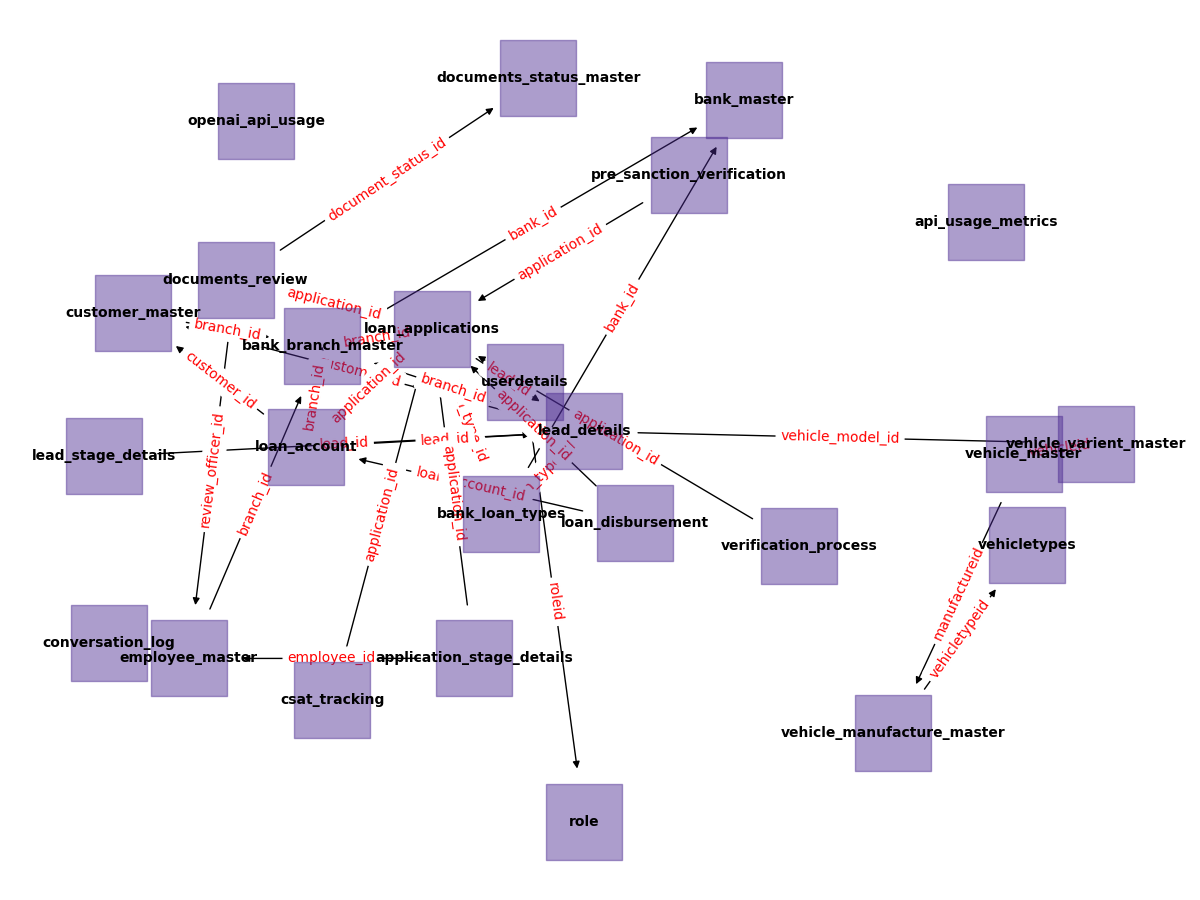
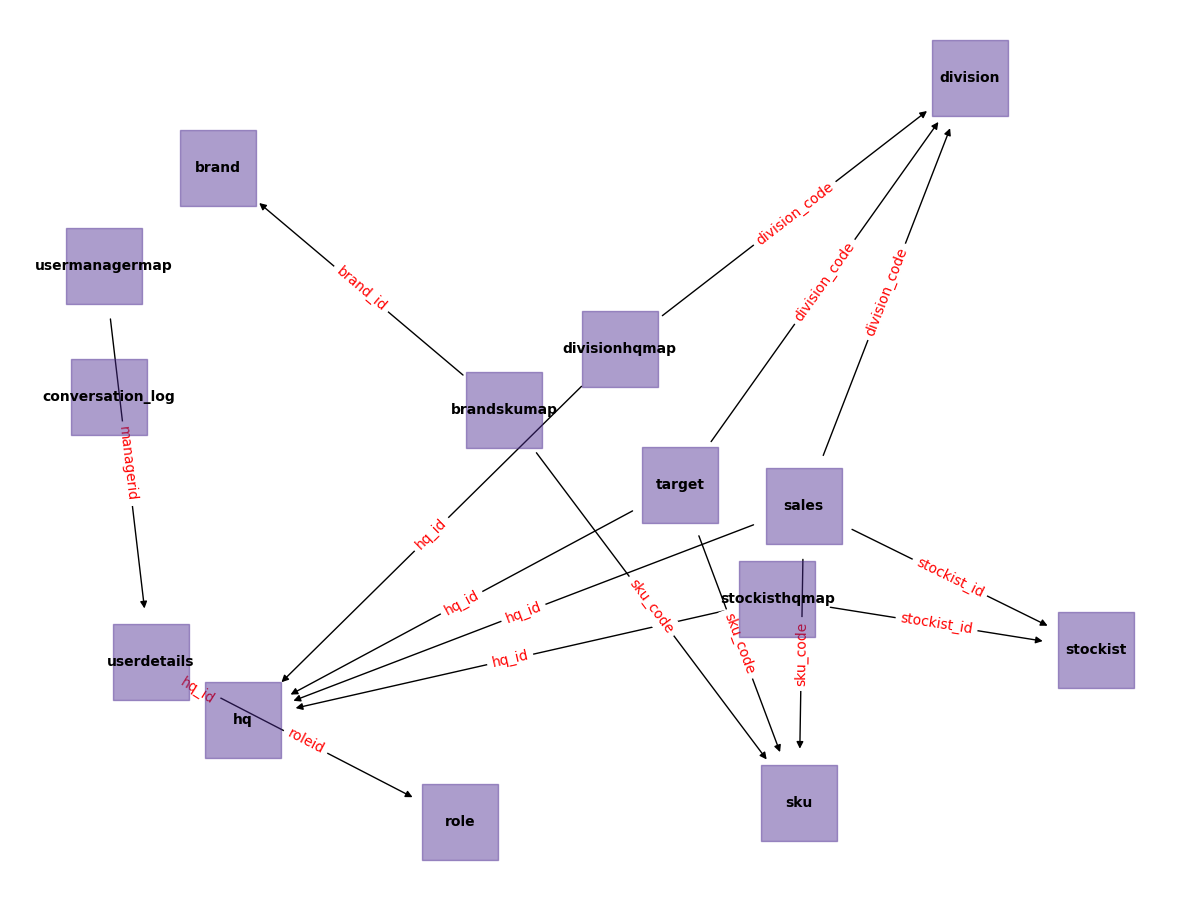
ok

diff --git a/src/components/FixedTemplate.tsx b/src/components/FixedTemplate.tsx
@@ -1,0 +1,91 @@
+import React from "react";
+
+type SectionResult = Record<string, string>;
+type Section = {
+  name: string;
+  query: string;
+  result: any;
+};
+
+type FixedTemplateProps = {
+  chat: {
+    id: number;
+    message: {
+      query: string;
+      result: Section[];
+      summery: string;
+      type: string;
+    };
+    time: string;
+    type: string;
+  };
+};
+
+const getTableHeaders = (results: SectionResult[]) => {
+  if (!results.length) return [];
+  return Object.keys(results[0]);
+};
+
+const FixedTemplate: React.FC<FixedTemplateProps> = ({ chat }) => {
+  console.log("sections", chat);
+
+  const sections = chat?.message?.result || [];
+  return (
+    <div>
+      {sections.map((section, idx) => (
+        <div key={idx} style={{ marginBottom: 32 }}>
+          <h3>{section.name}</h3>
+          {section.result && section.result.length > 0 ? (
+            <div style={{ overflowX: "auto" }}>
+              <table style={{ borderCollapse: "collapse", width: "100%" }}>
+                <thead>
+                  <tr>
+                    {getTableHeaders(section.result ?? []).map((header) => (
+                      <th
+                        key={header}
+                        style={{
+                          border: "1px solid #ccc",
+                          padding: "8px",
+                          background: "#f5f5f5",
+                          textTransform: "capitalize",
+                        }}
+                      >
+                        {header.replace(/_/g, " ")}
+                      </th>
+                    ))}
+                  </tr>
+                </thead>
+                <tbody>
+                  {section.result.map((row: SectionResult, rowIdx: number) => (
+                    <tr key={rowIdx}>
+                      {getTableHeaders(
+                        (section.result as SectionResult[]) ?? []
+                      ).map((header: string) => (
+                        <td
+                          key={header}
+                          style={{
+                            border: "1px solid #ccc",
+                            padding: "8px",
+                            textAlign: "center",
+                          }}
+                        >
+                          {row[header]}
+                        </td>
+                      ))}
+                    </tr>
+                  ))}
+                </tbody>
+              </table>
+            </div>
+          ) : (
+            <div style={{ color: "#888", fontStyle: "italic" }}>
+              No data available
+            </div>
+          )}
+        </div>
+      ))}
+    </div>
+  );
+};
+
+export default FixedTemplate;

diff --git a/src/pages/Chat.tsx b/src/pages/Chat.tsx
@@ -2,7 +2,7 @@ import React from "react";
 import WelcomeChatComp from "../components/WelcomeChatComp";
 import UserChat from "../components/UserChat";
 import LlmReply from "../components/LlmReply";
-import FixedReplyTemplate from "../components/FixedReplyTemplate";
+import FixedTemplate from "../components/FixedTemplate";
 import { QUERY, CALL_GPT } from "../config";
 import Loader from "../components/Loader";
 import { useSelector, useDispatch } from "react-redux";
@@ -195,21 +195,25 @@ const Chat: React.FC = () => {
                 </div>
               ) : (
                 <div key={chat.id} style={{ position: "relative" }}>
-                  <LlmReply
-                    index={index}
-                    chat={chat}
-                    loading={loading}
-                    userQuestion={chatHistory[index - 1]}
-                    Delete={() => (
-                      <CloseIcon
-                        style={{
-                          cursor: "pointer",
-                          float: "right",
-                        }}
-                        onClick={() => dispatch(deleteMessage(chat.id))}
-                      />
-                    )}
-                  />
+                  {chat?.message?.type === "template" ? (
+                    <FixedTemplate chat={chat} />
+                  ) : (
+                    <LlmReply
+                      index={index}
+                      chat={chat}
+                      loading={loading}
+                      userQuestion={chatHistory[index - 1]}
+                      Delete={() => (
+                        <CloseIcon
+                          style={{
+                            cursor: "pointer",
+                            float: "right",
+                          }}
+                          onClick={() => dispatch(deleteMessage(chat.id))}
+                        />
+                      )}
+                    />
+                  )}
                 </div>
               );
             })}

diff --git a/src/redux/slices/chatSlices.ts b/src/redux/slices/chatSlices.ts
@@ -4,7 +4,7 @@ import { Analitics } from "../../types/LLM";
 interface ChatMessage {
   id: number;
   type: string;
-  message: string | object;
+  message: string | object | Array<any>;
   time: string;
 }
 

diff --git a/src/App.tsx b/src/App.tsx
@@ -41,7 +41,6 @@ function App() {
       window.location.replace("/#/");
     }
   }, []);
-
   return (
     <UserContext.Provider value={{ user, setUser }}>
       <SimpleAlert />

diff --git a/Backend/Fixed_prompts_module/index.py b/Backend/Fixed_prompts_module/index.py
@@ -4,6 +4,7 @@ from sklearn.metrics.pairwise import cosine_similarity
 from sql.db import execute_sql_query
 from helper.gpt import call_gpt_sql_data
 from .static_questions import generate_static_sql
+from .templates import get_templates
 from Log.index import log
 import os
 
@@ -46,19 +47,16 @@ def pre_process_data(query, controlStatement="", chatContext={}):
         questions_texts = most_similar_query.get('questions')
         use = most_similar_query.get('use')
         analytics = most_similar_query.get('analytics')
+        templates = most_similar_query.get('templates')
         print("query_id===============>", query_id) 
 
         final_query = query_text
-        if(query_id == 12):
+        if(query_id == 999):
+            result_data = get_templates(templates)
+            return {"query": "NA", "result": result_data,"summery":"", "type": "template"}
+        elif(query_id == 12):
             sql_text = generate_static_sql(query + controlStatement)
-            print("sql_text===============>", sql_text) 
             result1 = execute_sql_query(sql_text)
-            print("result1===============>", result1)
-            # response = {
-            #     "table1": result1,
-            #     "questions": "",
-            #     "analytics": ""
-            # } 
             return {"query": sql_text, "result": result1,"summery":"", "type": "fixed"}
         else:
             if use == "Dynamic":

diff --git a/Backend/Fixed_prompts_module/templates.py b/Backend/Fixed_prompts_module/templates.py
@@ -1,0 +1,18 @@
+
+from sql.db import execute_sql_query
+
+def get_templates(templates):
+    
+    results = []
+    for template in templates:
+        name = template.get("name")
+        query = template.get("query")
+        display = template.get("display")
+        print("query=========>", query)
+        data = execute_sql_query(query)
+        results.append({"name": name, "query": query, "result": data, "display": display})
+    print("query========ooooo=======>", results)
+    return results
+
+
+   
